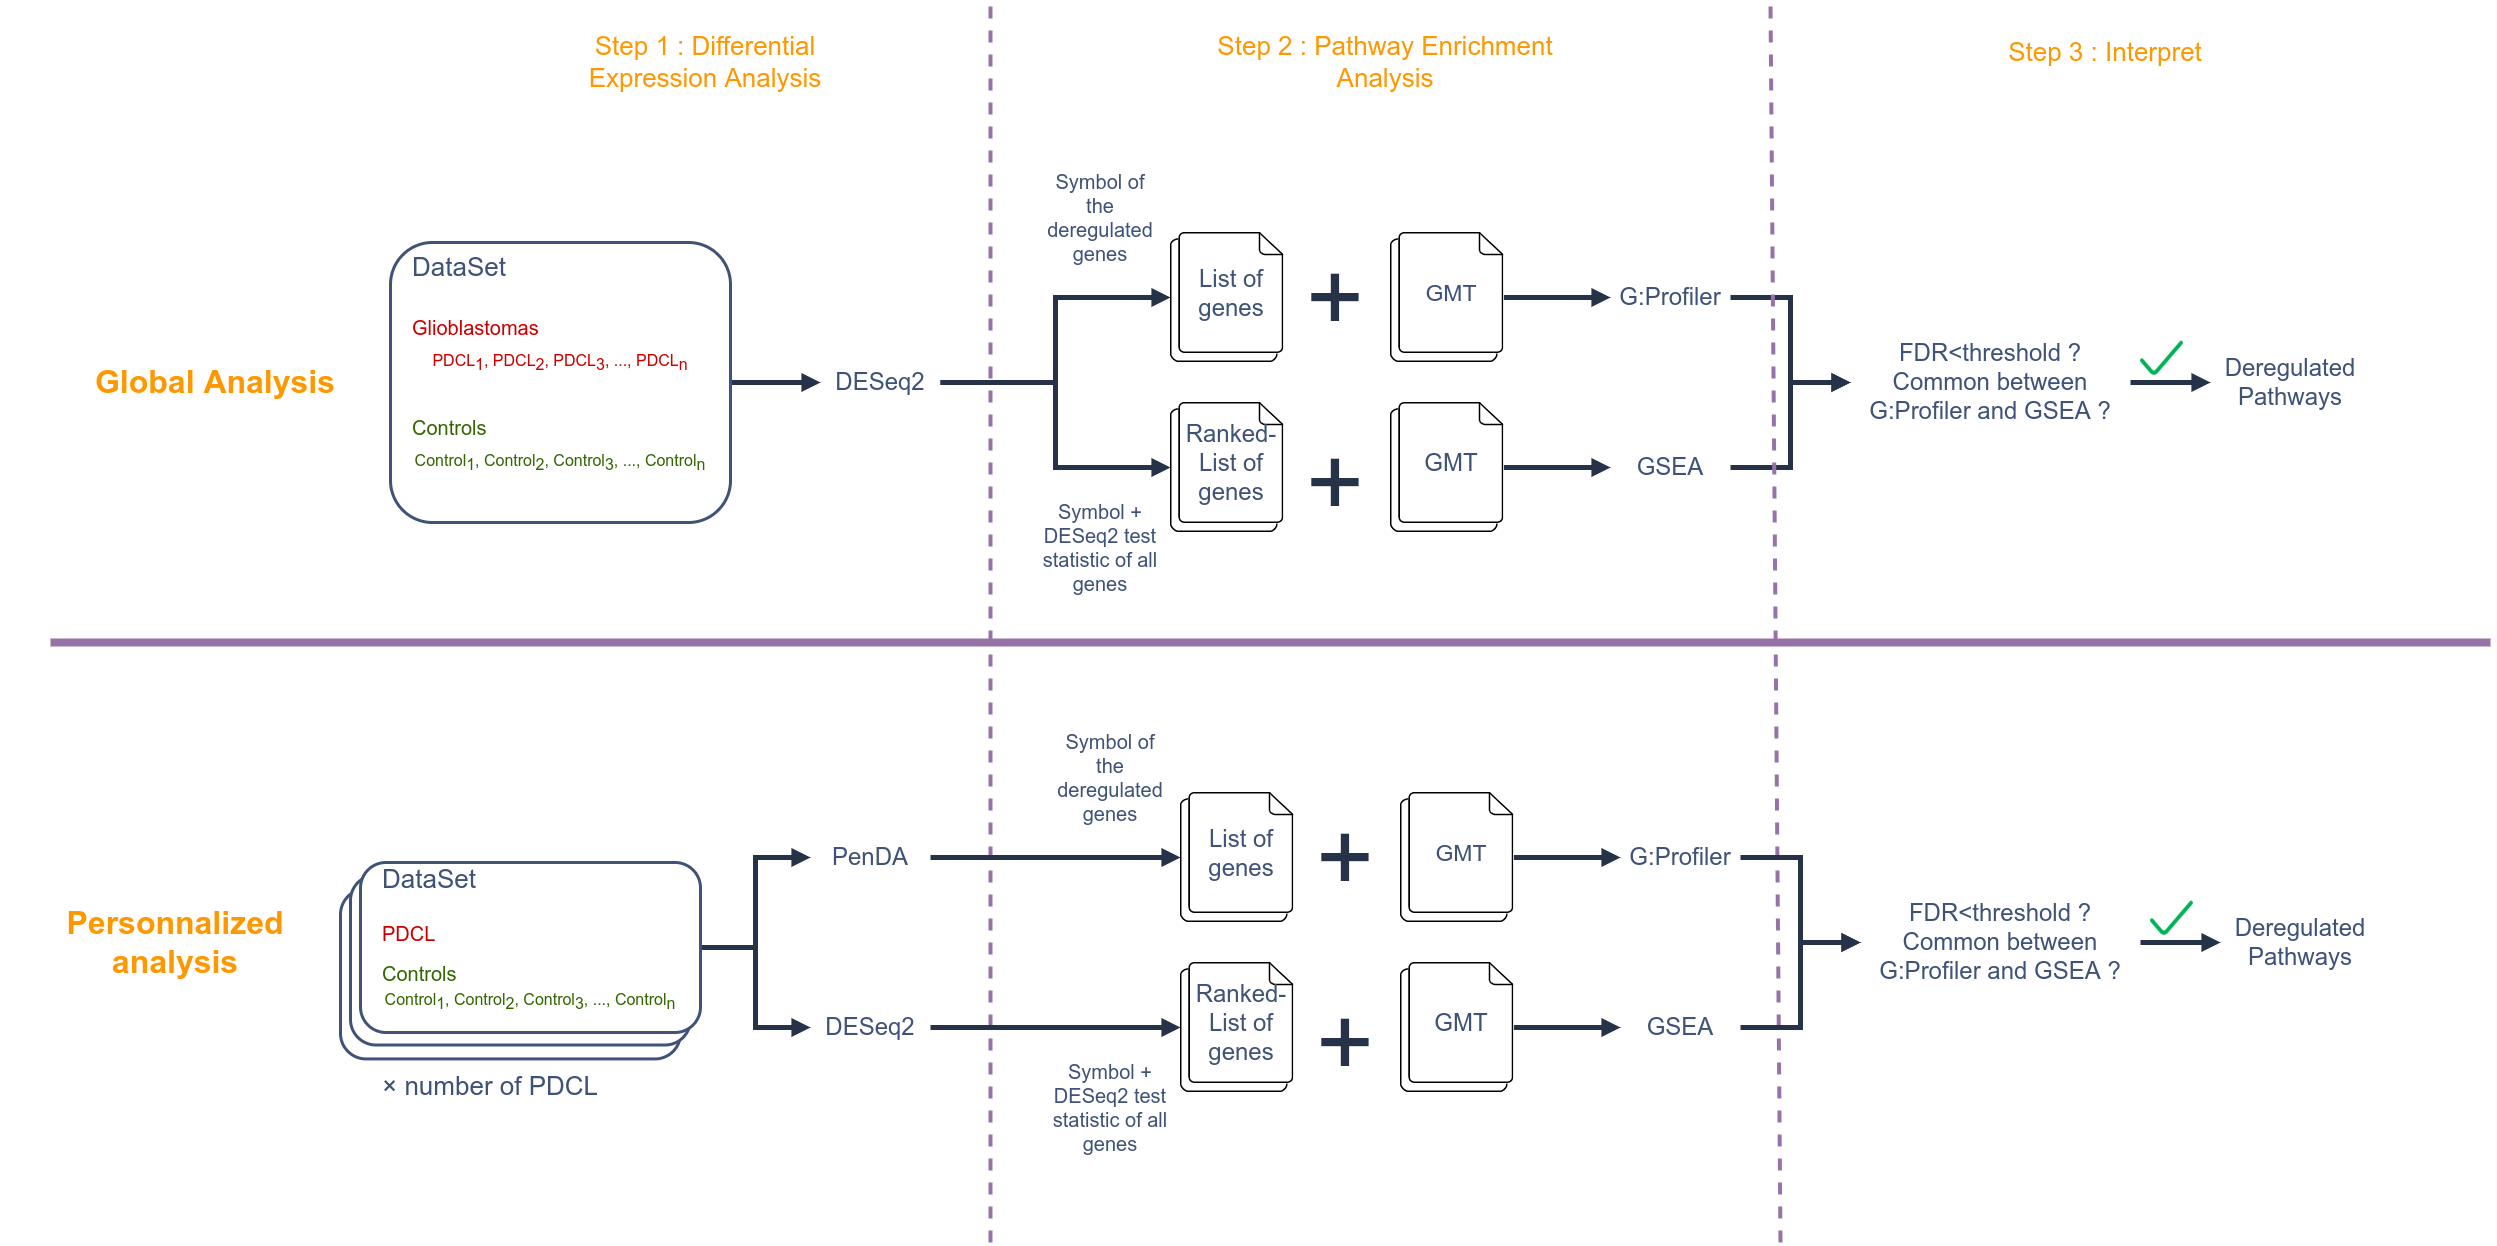
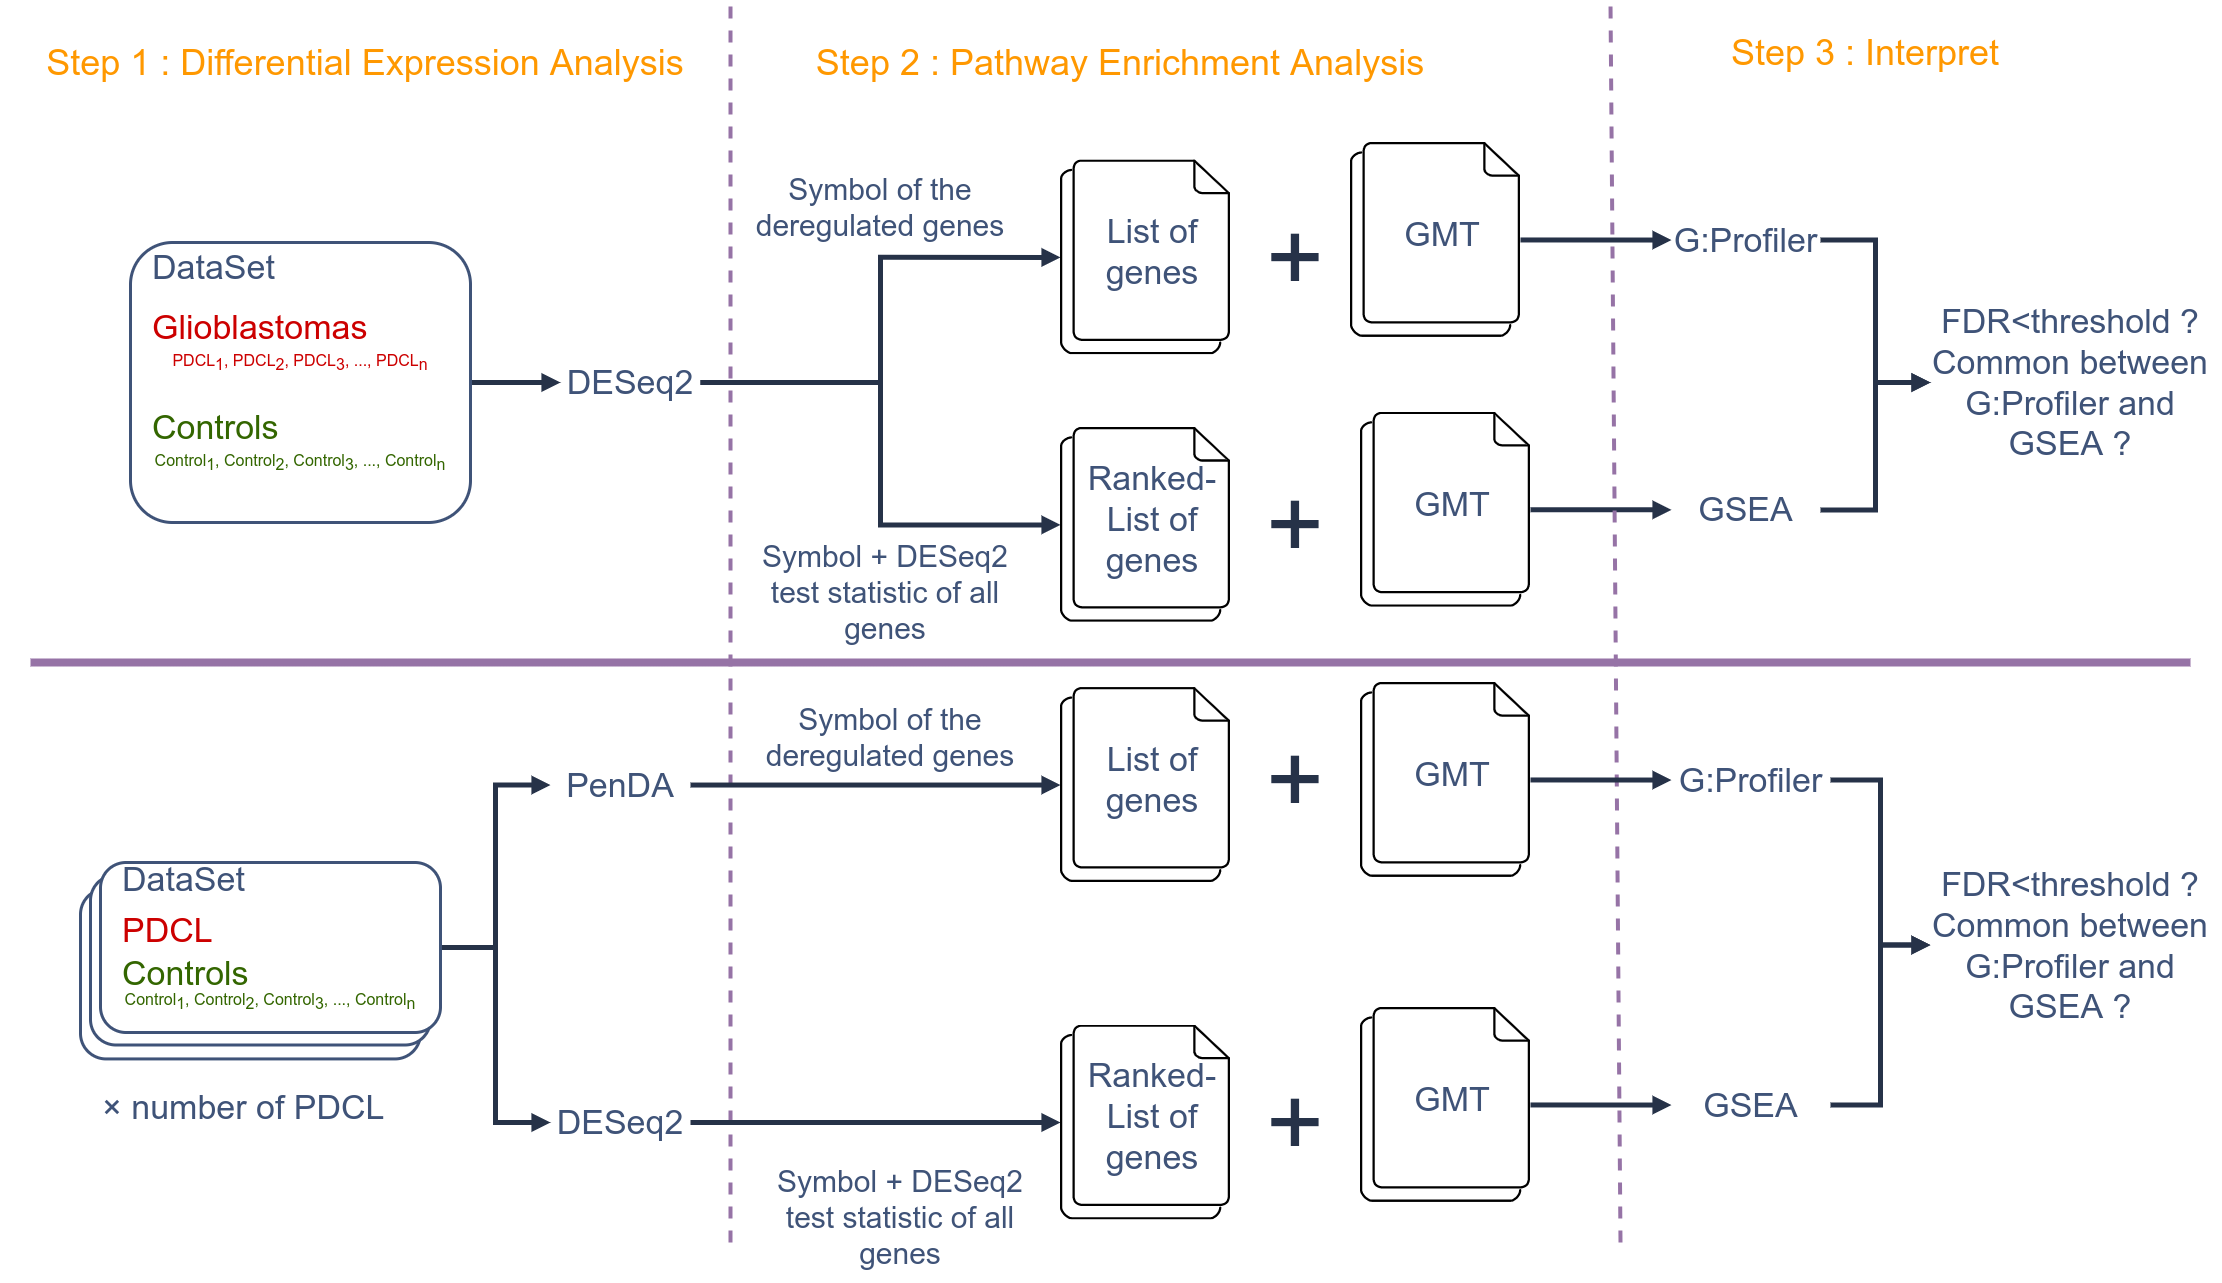
Diagram caption + more readable figure

diff --git a/manuscript/material-method.tex b/manuscript/material-method.tex
@@ -26,11 +26,18 @@ We used ggplot2 (version \textbf{3.3.6}) and rmarkdown (version \textbf{2.14}) t
 
 \begin{figure}
     \centering
-    \includegraphics[width=\textwidth]{img/workflow-diagram.png}
+    \includegraphics[width=\textwidth]{img/workflow-diagram}
     \caption{
-        Diagram of the overall approach used in this paper.
+        Diagram of the overall approach used in this paper to find in case of glioblastoma.
+        The top figure represent the workflow to find the typical deregulated pathways in the case of glioblastoma.
+        The expression from all tumour samples and control samples is included in the dataset for comparison.
+        The bottom figure, represent the workflow to determine the pathways speciffically deregulated for each \acrshort{pdcl}.
+        One \acrshort{pdcl} and all the control are included in the dataset, hence there are as many datasets as the number of \acrshort{pdcl}.
+        In the global analysis only DESeq2 is used for \acrlong{de} analysis while \acrshort{penda} and DESeq2 are used in the personnalized analysis.
+        In both analysis G:Profiler and \acrshort{gsea} are selected to carry out pathway enrichment.
+        Then we filter out pathways that do not pass the threshold of significance or that are not common to the two pathway enrichment tools.
     }
-    \label{fig:workflow-diagram}
+    \label{fig:workflow-diagram-global}
 \end{figure}
 
 \subsection{Data Sets}
